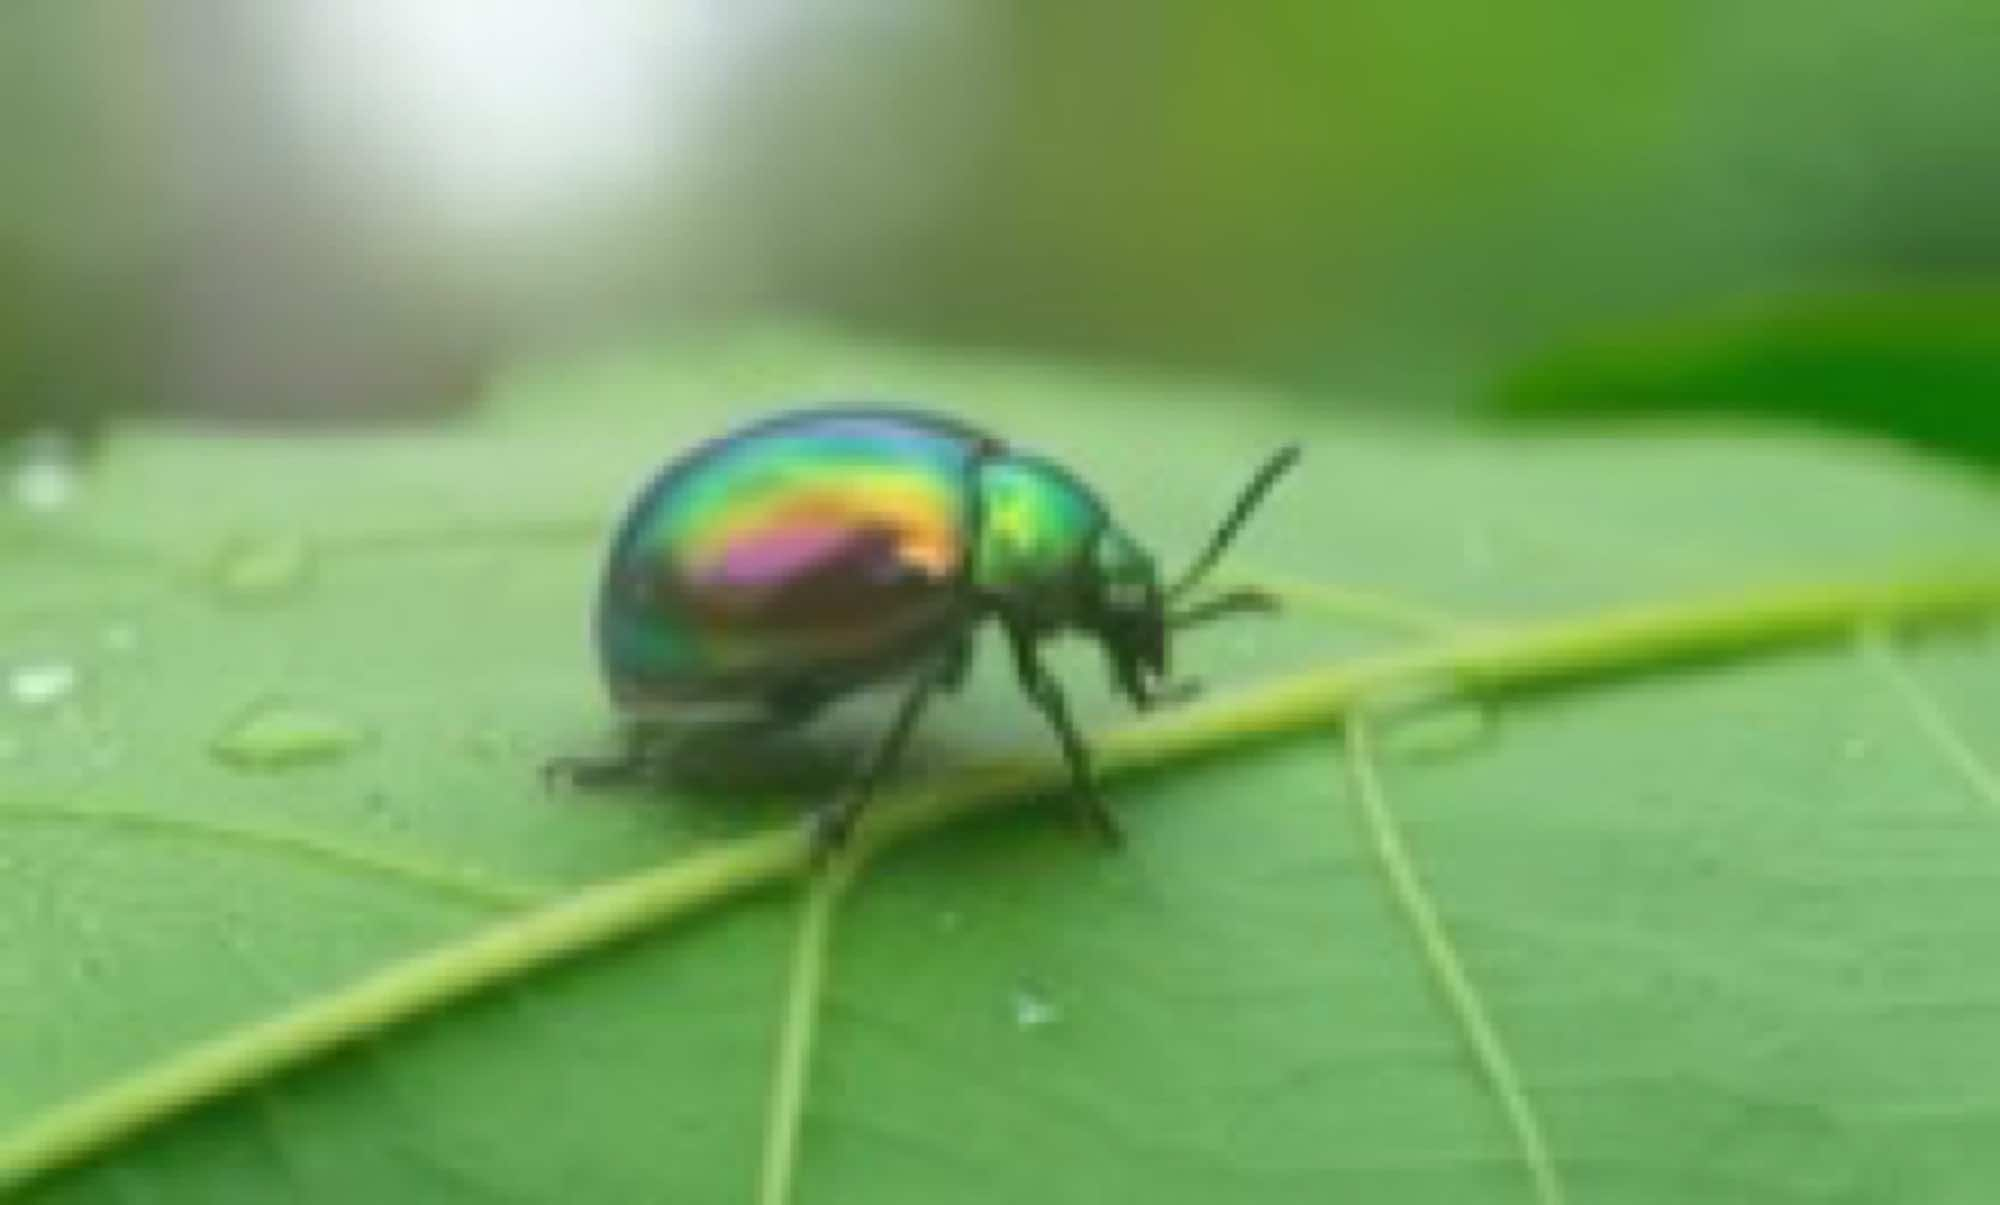
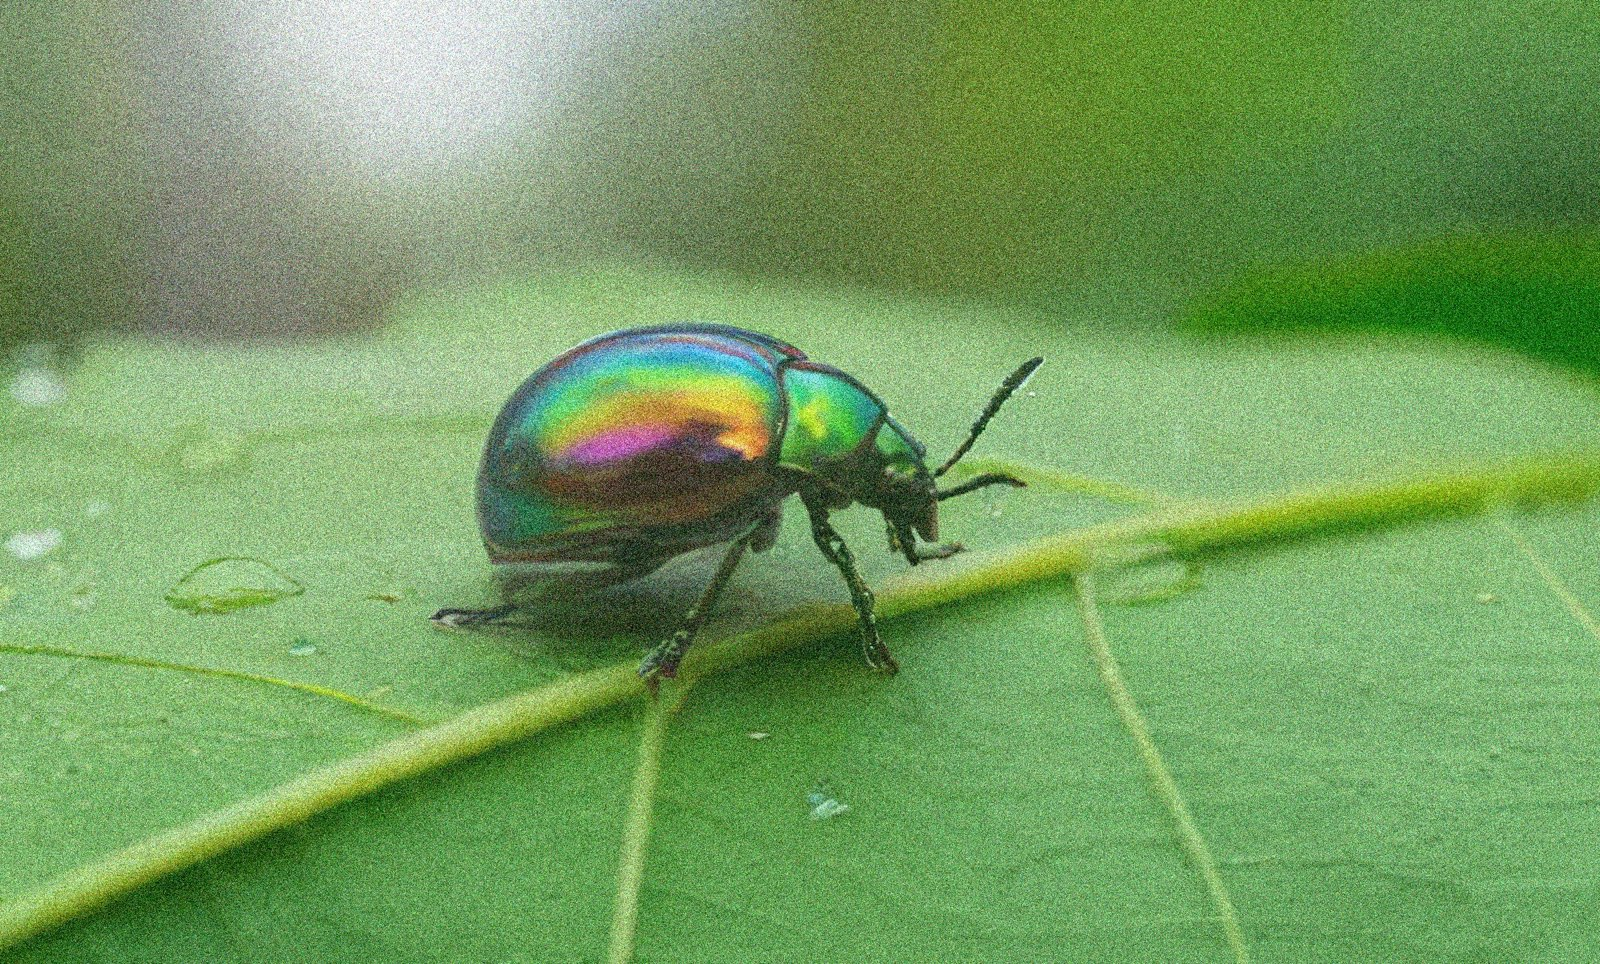
Upscale lens: noise/denoise demo, smaller lens, single image
- Size the lens as a share of the image so it stays small on laptops.
- Widen the block so the image is bigger.
- Remove the single-image CSS blur fallback; require before and after images.
- Update the demo copy and use a grainy "before" image.

diff --git a/libs/blocks/upscale-lens/upscale-lens.js b/libs/blocks/upscale-lens/upscale-lens.js
@@ -132,13 +132,13 @@ function initLens(stage) {
   });
 }
 
-function buildStage(before, after, autoBlur) {
+function buildStage(before, after) {
   const beforeImg = before.querySelector('img');
   beforeImg?.setAttribute('loading', 'eager');
   beforeImg?.setAttribute('fetchpriority', 'high');
   after.querySelector('img')?.setAttribute('loading', 'eager');
 
-  const stage = createTag('div', { class: `upscale-lens-stage${autoBlur ? ' auto-blur' : ''}` }, [
+  const stage = createTag('div', { class: 'upscale-lens-stage' }, [
     createTag('div', { class: 'upscale-lens-layer before' }, before),
     createTag('div', { class: 'upscale-lens-layer after' }, after),
     createTag('div', { class: 'upscale-lens-box' }, [
@@ -161,14 +161,12 @@ export default function init(el) {
   const pictures = cells
     .filter((cell) => cell !== copyCell)
     .flatMap((cell) => [...cell.querySelectorAll('picture')]);
-  if (!pictures.length) {
-    window.lana?.log('upscale-lens: no image found', { tags: 'upscale-lens' });
+  if (pictures.length < 2) {
+    window.lana?.log('upscale-lens: needs a before and an after image', { tags: 'upscale-lens' });
     return;
   }
 
-  const [before, authoredAfter] = pictures;
-  const after = authoredAfter ?? before.cloneNode(true);
-  if (!authoredAfter) after.querySelector('img')?.setAttribute('alt', '');
+  const [before, after] = pictures;
 
   const children = [];
   el.classList.toggle('no-copy', !copyCell);
@@ -177,6 +175,6 @@ export default function init(el) {
     decorateBlockText(copy, ['xxl', 'm', 'm', 'l']);
     children.push(copy);
   }
-  children.push(buildStage(before, after, !authoredAfter));
+  children.push(buildStage(before, after));
   el.replaceChildren(...children);
 }

diff --git a/libs/blocks/upscale-lens/upscale-lens.css b/libs/blocks/upscale-lens/upscale-lens.css
@@ -20,7 +20,7 @@
   display: grid;
   gap: var(--spacing-l);
   align-items: center;
-  width: var(--grid-container-width);
+  width: min(100% - 2 * var(--spacing-m), 1920px);
   margin: 0 auto;
   padding: var(--spacing-l) 0;
 }
@@ -40,8 +40,8 @@
   --pan-x: 0px;
   --pan-y: 0px;
   /* stylelint-enable length-zero-no-unit */
-  --lens-w: calc(100% - 6rem);
-  --lens-h: calc(100% - 6rem);
+  --lens-w: 60%;
+  --lens-h: 60%;
   --lens-radius: 12px;
   --brightness: 1;
 
@@ -64,8 +64,8 @@
 }
 
 .upscale-lens-stage.active {
-  --lens-w: calc(100% - 10rem);
-  --lens-h: calc(100% - 10rem);
+  --lens-w: 45%;
+  --lens-h: 45%;
   --zoom: 2.5;
 }
 
@@ -91,10 +91,6 @@
   transition:
     scale 0.5s cubic-bezier(0.22, 1, 0.36, 1),
     filter 0.5s ease;
-}
-
-.upscale-lens-stage.auto-blur .before img {
-  filter: blur(6px) saturate(0.85) brightness(var(--brightness));
 }
 
 .upscale-lens-layer.after {
@@ -199,16 +195,17 @@
 }
 
 @media (min-width: 768px) {
+  /* The stage is 3:2, so the height share is 1.5x the width share to keep the lens square. */
   .upscale-lens-stage {
-    --lens-w: min(30rem, 100% - 2rem);
-    --lens-h: min(30rem, 100% - 2rem);
+    --lens-w: 36%;
+    --lens-h: 54%;
 
     aspect-ratio: 3 / 2;
   }
 
   .upscale-lens-stage.active {
-    --lens-w: min(20rem, 100% - 2rem);
-    --lens-h: min(20rem, 100% - 2rem);
+    --lens-w: 24%;
+    --lens-h: 36%;
   }
 }
 

diff --git a/drafts/upscale-lens/index.html b/drafts/upscale-lens/index.html
@@ -13,20 +13,12 @@
       <div class="upscale-lens">
         <div>
           <div>
-            <h1>Make low-res images sharp again.</h1>
-            <p>Upscale, denoise, and sharpen your photos with AI in Adobe Firefly.</p>
+            <h1>Enhance your image with Adobe Firefly</h1>
+            <p>Upscale, Denoise, Sharpen and More</p>
             <p><strong><a href="https://firefly.adobe.com/">Try it free</a></strong></p>
           </div>
-          <div><picture><img src="./before.jpg" alt="A low-resolution photo of a beetle on a leaf" width="2000" height="1205"></picture></div>
-          <div><picture><img src="./after.jpg" alt="The same beetle photo, upscaled and sharp" width="2000" height="1205"></picture></div>
-        </div>
-      </div>
-    </div>
-    <div>
-      <h2>One image only (CSS blur fallback)</h2>
-      <div class="upscale-lens">
-        <div>
-          <div><picture><img src="./after.jpg" alt="A beetle on a leaf" width="2000" height="1205"></picture></div>
+          <div><picture><img src="./before.jpg" alt="A noisy photo of a beetle on a leaf" width="1600" height="964"></picture></div>
+          <div><picture><img src="./after.jpg" alt="The same beetle photo, denoised and clean" width="2000" height="1205"></picture></div>
         </div>
       </div>
     </div>

diff --git a/test/blocks/upscale-lens/upscale-lens.test.js b/test/blocks/upscale-lens/upscale-lens.test.js
@@ -15,14 +15,11 @@ describe('Upscale lens', () => {
     expect(twoImages.querySelector('.before img').alt).to.equal('Before');
     expect(twoImages.querySelector('.after img').alt).to.equal('After');
     expect(twoImages.querySelector('.upscale-lens-copy h1')).to.exist;
-    expect(twoImages.querySelector('.upscale-lens-stage').classList.contains('auto-blur')).to.be.false;
   });
 
-  it('copies a single image and blurs the before layer', () => {
-    const stage = oneImage.querySelector('.upscale-lens-stage');
-    expect(stage.classList.contains('auto-blur')).to.be.true;
-    expect(oneImage.classList.contains('no-copy')).to.be.true;
-    expect(stage.querySelector('.after img').alt).to.equal('');
+  it('does nothing when only one image is authored', () => {
+    expect(oneImage.querySelector('.upscale-lens-stage')).to.not.exist;
+    expect(oneImage.querySelector('picture')).to.exist;
   });
 
   it('activates while the pointer is held and resets on release', () => {
